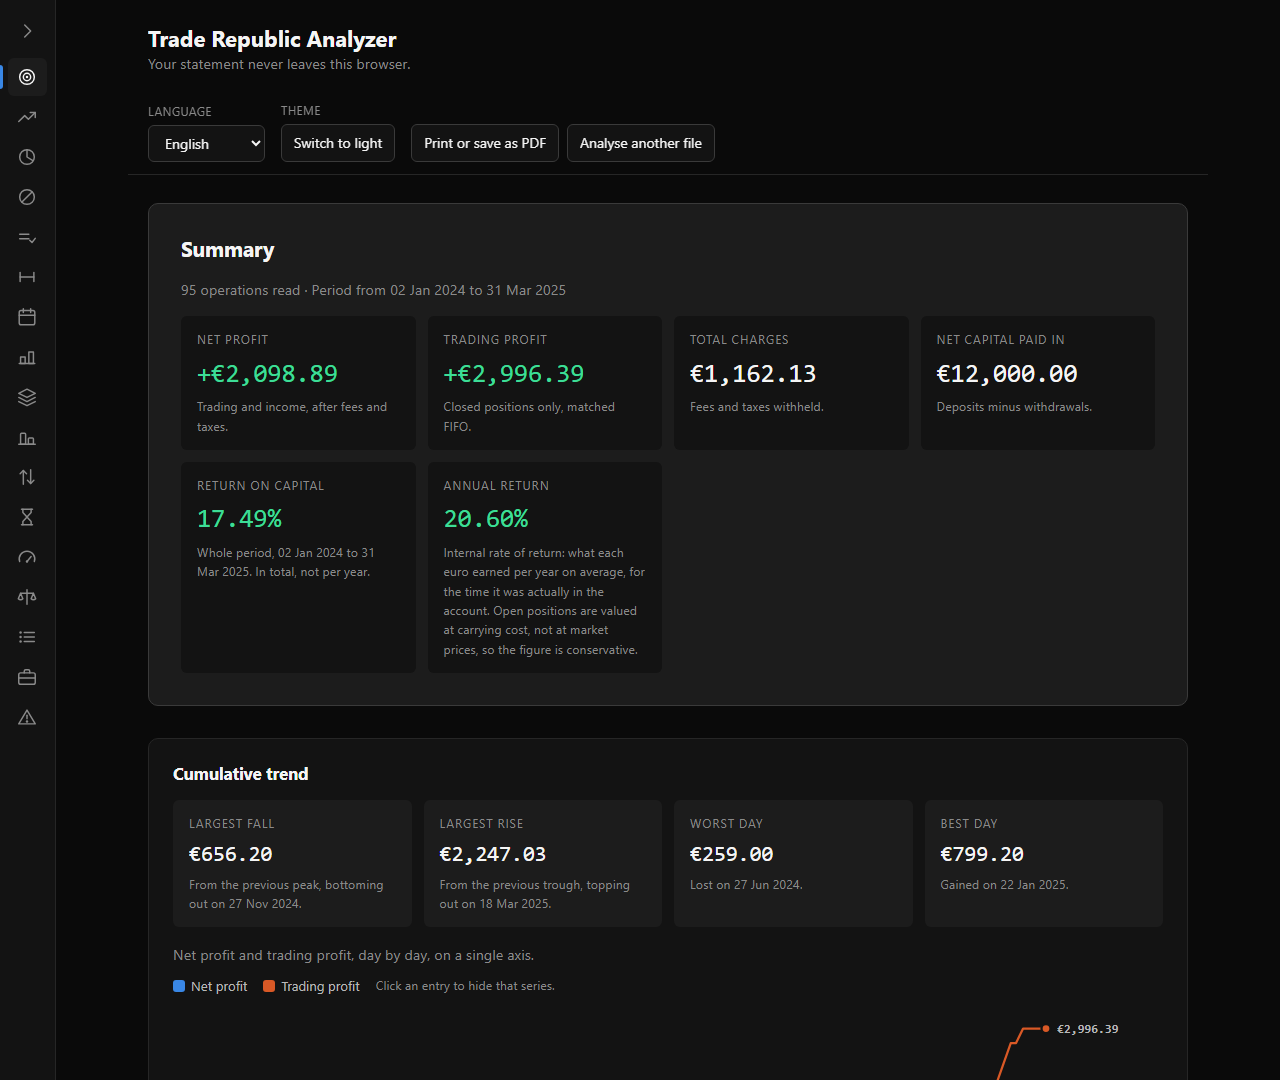
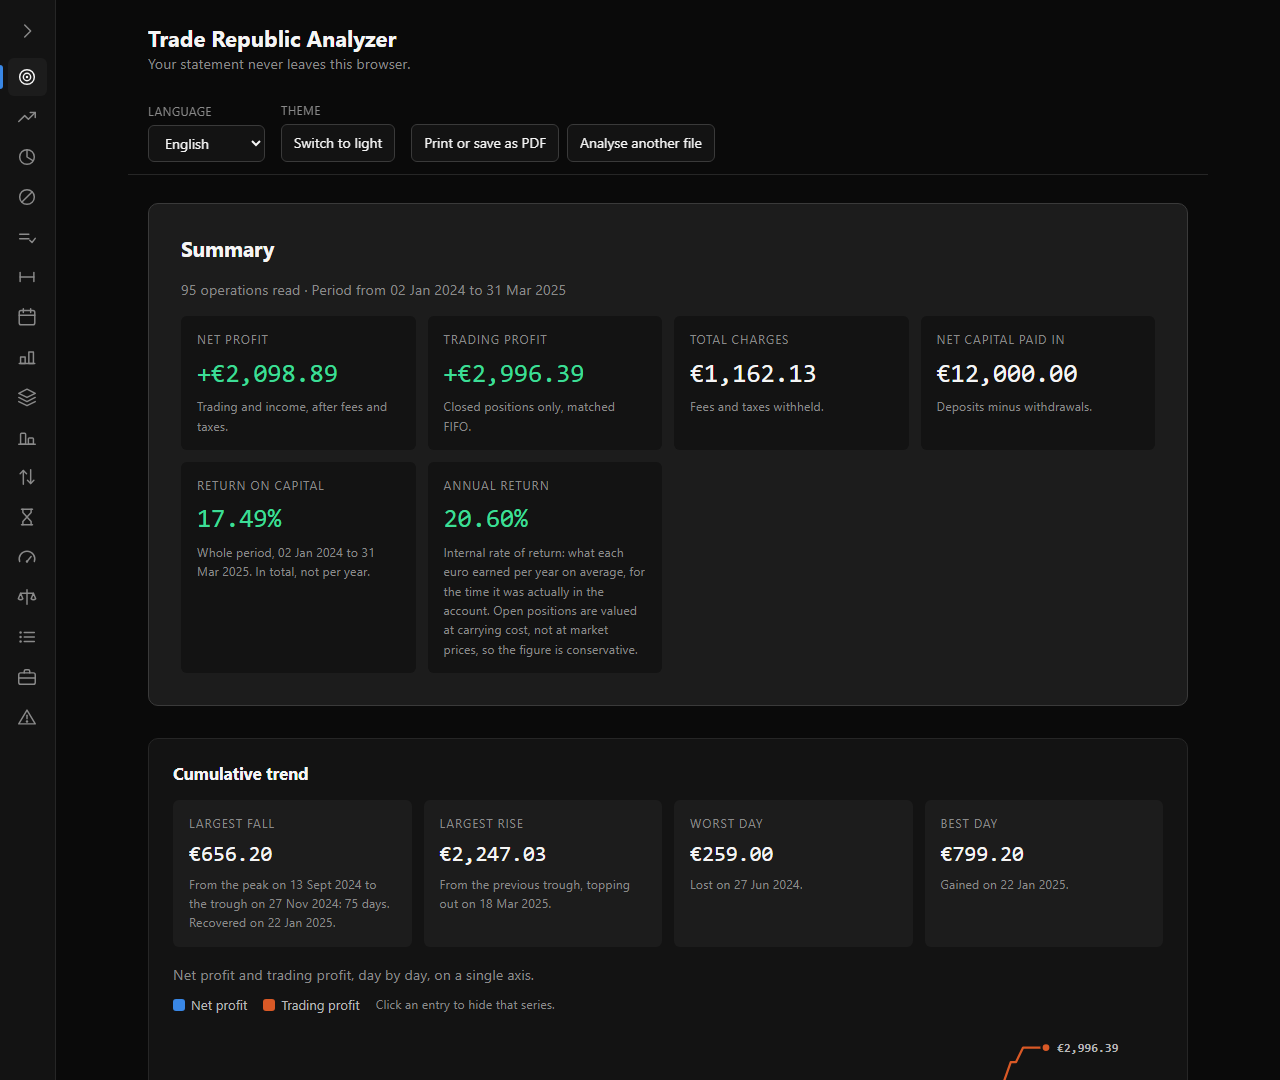
feat(trend): time the deepest fall, and say if it was made good
The four tiles sized the swing without saying how long it took. The
drawdown now carries its own span: from the peak it fell from, to the
trough, in calendar days, and the day the curve climbed back to that
peak — or that it has not.

It goes in the tile's hint rather than a fifth tile: five tiles break
the pairing the four were arranged for, where a narrow screen wraps
into fall+rise and worst+best.

`setback()` keeps the peak of the deepest fall apart from the running
one — a later, higher peak belongs to a shallower fall. Where that peak
is the zero the account opened at it has no day, and the tile falls
back to naming the trough alone: the first day of the series is one the
curve had already left.

Changed region(s): [[0.125, 0.7944, 0.4375, 0.9472], [0.7812, 0.9472, 0.875, 1.0]]

diff --git a/src/core/analytics.ts b/src/core/analytics.ts
@@ -47,6 +47,12 @@ export interface Setback {
   drawdown: Decimal;
   /** The day the deepest fall bottomed out. */
   troughDate: string;
+  /** The day of the peak it fell from. Empty when that peak is the seeded zero. */
+  peakDate: string;
+  /** Calendar days from that peak to the trough. Zero when there is no peak day. */
+  days: number;
+  /** The first day the curve climbed back to that peak, or null if it has not. */
+  recoveryDate: string | null;
   /** The worst single day's contribution, as a positive amount. */
   worstDay: Decimal;
   /** The day that contributed it. */
@@ -54,11 +60,37 @@ export interface Setback {
 }
 
 /**
- * How far the cumulative profit fell, and the worst single day inside it.
+ * The first day the curve stood at `level` again, after the day it bottomed out.
+ *
+ * The points are sorted, so the day strings compare directly. Null means the
+ * fall is still open — a fact about the account, not a missing figure.
+ */
+function recoveredOn(
+  points: readonly SeriesPoint[],
+  troughDate: string,
+  level: Decimal,
+): string | null {
+  for (const point of points) {
+    if (point.date > troughDate && !point.net.lessThan(level)) return point.date;
+  }
+  return null;
+}
+
+/**
+ * How far the cumulative profit fell, how long it took, and the worst single
+ * day inside it.
  *
  * The running peak starts at zero rather than at the first point: an account
  * that only ever loses has fallen from the zero it opened at, and starting the
  * peak at the first — already negative — point would report no fall at all.
+ * That seed is also why `peakDate` can be empty while the fall itself is real:
+ * the zero the account opened at stood on no particular day, and the first day
+ * of the series is one on which the curve had already dropped.
+ *
+ * The duration is calendar days elapsed between the two days, not days the
+ * account traded on: the money stayed down over the weekends too. Peak and
+ * trough can never be the same day — the fall from a peak is zero on the day
+ * that peak is set — so a duration that exists is at least one day.
  *
  * Null when nothing ever went backwards, which is not the same as a fall of
  * zero: a card that prints «-0,00 €» invites the reader to look for the day it
@@ -66,17 +98,27 @@ export interface Setback {
  */
 export function setback(points: readonly SeriesPoint[]): Setback | null {
   let peak = ZERO;
+  let peakDate = '';
   let drawdown = ZERO;
   let troughDate = '';
+  let fellFrom = ZERO;
+  let fellFromDate = '';
   let worstDay = ZERO;
   let worstDayDate = '';
 
   for (const point of points) {
-    if (point.net.greaterThan(peak)) peak = point.net;
+    if (point.net.greaterThan(peak)) {
+      peak = point.net;
+      peakDate = point.date;
+    }
     const fall = peak.minus(point.net);
     if (fall.greaterThan(drawdown)) {
       drawdown = fall;
       troughDate = point.date;
+      // The peak the deepest fall started from, kept apart from the running one:
+      // a later, higher peak belongs to a shallower fall.
+      fellFrom = peak;
+      fellFromDate = peakDate;
     }
     if (point.dayProfit.lessThan(worstDay)) {
       worstDay = point.dayProfit;
@@ -88,7 +130,15 @@ export function setback(points: readonly SeriesPoint[]): Setback | null {
   // only fall on a day that took something away, and a day that took something
   // away always leaves the curve below the peak it had just been at.
   if (troughDate === '') return null;
-  return { drawdown, troughDate, worstDay: worstDay.negated(), worstDayDate };
+  return {
+    drawdown,
+    troughDate,
+    peakDate: fellFromDate,
+    days: fellFromDate === '' ? 0 : daysBetween(fellFromDate, troughDate),
+    recoveryDate: recoveredOn(points, troughDate, fellFrom),
+    worstDay: worstDay.negated(),
+    worstDayDate,
+  };
 }
 
 export interface Advance {

diff --git a/tests/core/analytics.test.ts b/tests/core/analytics.test.ts
@@ -161,6 +161,84 @@ describe('setback', () => {
     expect(fall.worstDay.isNegative()).toBe(false);
     expect(fall.worstDay.toFixed(2)).toBe('40.00');
   });
+
+  it('dates the peak the fall started from, and the day it was made good', () => {
+    const points = account([
+      ['2024-02-01', 'AAA', '200.00'], // +100, net 100
+      ['2024-03-01', 'BBB', '40.00'], //  -60, net 40
+      ['2024-04-01', 'CCC', '200.00'], // +100, net 140
+    ]);
+    const fall = setback(points)!;
+
+    expect(fall.peakDate).toBe('2024-02-01');
+    expect(fall.troughDate).toBe('2024-03-01');
+    expect(fall.days).toBe(29); // February 2024 has 29 days.
+    expect(fall.recoveryDate).toBe('2024-04-01');
+  });
+
+  it('counts calendar days elapsed, so two consecutive days are one', () => {
+    const fall = setback(
+      account([
+        ['2024-02-01', 'AAA', '200.00'], // +100, net 100
+        ['2024-02-02', 'BBB', '40.00'], //  -60, net 40
+      ]),
+    )!;
+
+    expect(fall.days).toBe(1);
+  });
+
+  it('leaves the recovery open until the curve reaches the peak again', () => {
+    // The last day climbs, and climbs past the trough — but it stops below the
+    // 100 the fall started from, so the fall is still on.
+    const fall = setback(
+      account([
+        ['2024-02-01', 'AAA', '200.00'], // +100, net 100
+        ['2024-03-01', 'BBB', '40.00'], //  -60, net 40
+        ['2024-04-01', 'CCC', '150.00'], //  +50, net 90
+      ]),
+    )!;
+
+    expect(fall.drawdown.toFixed(2)).toBe('60.00');
+    expect(fall.recoveryDate).toBeNull();
+  });
+
+  it('recovers on the day the curve regains the peak, not the day it turns', () => {
+    const fall = setback(
+      account([
+        ['2024-02-01', 'AAA', '200.00'], // +100, net 100
+        ['2024-03-01', 'BBB', '40.00'], //  -60, net 40
+        ['2024-04-01', 'CCC', '150.00'], //  +50, net 90
+        ['2024-05-01', 'DDD', '160.00'], //  +60, net 150
+      ]),
+    )!;
+
+    expect(fall.recoveryDate).toBe('2024-05-01');
+  });
+
+  it('keeps the peak of the deepest fall when a higher one comes later', () => {
+    const points = account([
+      ['2024-02-01', 'AAA', '200.00'], // +100, net 100
+      ['2024-03-01', 'BBB', '40.00'], //  -60, net 40
+      ['2024-04-01', 'CCC', '300.00'], // +200, net 240
+      ['2024-05-01', 'DDD', '80.00'], //  -20, net 220
+    ]);
+    const fall = setback(points)!;
+
+    // The later peak is the higher one, but it belongs to the 20 fall.
+    expect(fall.drawdown.toFixed(2)).toBe('60.00');
+    expect(fall.peakDate).toBe('2024-02-01');
+    expect(fall.days).toBe(29);
+  });
+
+  it('has no day for a peak that is the zero the account opened at', () => {
+    // The first point is already negative: the fall is real, but it started
+    // from a zero that stood on no day of the series.
+    const fall = setback(account([['2024-02-01', 'AAA', '60.00']]))!;
+
+    expect(fall.drawdown.toFixed(2)).toBe('40.00');
+    expect(fall.peakDate).toBe('');
+    expect(fall.days).toBe(0);
+  });
 });
 
 describe('advance', () => {

diff --git a/tests/ui/trend.test.ts b/tests/ui/trend.test.ts
@@ -25,6 +25,18 @@ const DIPS = [
   op('2024-05-01T09:00:00Z', 'TRADING', 'SELL', { shares: '-1', amount: '160', symbol: 'DDD' }),
 ];
 
+/**
+ * A fall the curve never climbs back out of, one day after the peak: net 100 on
+ * 02-01, then 40 on 02-02 and nothing after it.
+ */
+const UNRECOVERED = [
+  ...['AAA', 'BBB'].map((symbol) =>
+    op('2024-01-01T09:00:00Z', 'TRADING', 'BUY', { shares: '1', amount: '-100', symbol }),
+  ),
+  op('2024-02-01T09:00:00Z', 'TRADING', 'SELL', { shares: '-1', amount: '200', symbol: 'AAA' }),
+  op('2024-02-02T09:00:00Z', 'TRADING', 'SELL', { shares: '-1', amount: '40', symbol: 'BBB' }),
+];
+
 /** Never falls: no fee on the buy, and the one sale is a gain. */
 const ONLY_RISES = [
   op('2024-01-01T09:00:00Z', 'TRADING', 'BUY', { shares: '1', amount: '-100' }),
@@ -70,6 +82,35 @@ describe('trendSection', () => {
     // 100 down to 50, while the account is still 50 in profit.
     expect(drawdown!.value).toBe(formatCurrency('it', dec('50')));
     expect(drawdown!.hint).toContain(formatDate('it', '2024-04-01'));
+  });
+
+  it('says how long the fall lasted and when it was made good', () => {
+    const [drawdown] = tiles(trendSection(contextFor('it', DIPS)));
+
+    // Written out whole: the two dates are the peak and the trough in that
+    // order, and a sentence that named them the other way round would still
+    // contain both.
+    expect(drawdown!.hint).toBe(
+      `Dal picco del ${formatDate('it', '2024-02-01')} al minimo del ${formatDate('it', '2024-04-01')}: 60 giorni. Recuperata il ${formatDate('it', '2024-05-01')}.`,
+    );
+  });
+
+  it('says the fall is still on when the curve never regained the peak', () => {
+    const [drawdown] = tiles(trendSection(contextFor('it', UNRECOVERED)));
+
+    expect(drawdown!.hint).toBe(
+      `Dal picco del ${formatDate('it', '2024-02-01')} al minimo del ${formatDate('it', '2024-02-02')}: 1 giorno, non ancora recuperata.`,
+    );
+  });
+
+  it('names only the trough when the fall started from the account’s zero', () => {
+    // No day carried that peak, so there is no span to state: the sentence is
+    // the one the tile printed before it could measure a duration.
+    const [drawdown] = tiles(trendSection(contextFor('it', ONLY_FALLS)));
+
+    expect(drawdown!.hint).toBe(
+      `Dal picco precedente, minimo toccato il ${formatDate('it', '2024-06-01')}.`,
+    );
   });
 
   it('measures the run-up from the trough, not from the start', () => {

diff --git a/src/ui/views/trend.ts b/src/ui/views/trend.ts
@@ -5,14 +5,38 @@
  * reason a second axis is never offered here.
  */
 
-import { advance, setback, timeSeries } from '../../core/analytics';
+import { advance, setback, timeSeries, type Setback } from '../../core/analytics';
 import { el } from '../dom';
 import { figure } from '../chart/figure';
 import { dayNumber } from '../chart/geometry';
 import { lineChart } from '../chart/line';
 import { SERIES_1, SERIES_2 } from '../chart/palette';
 import { formatCurrency, formatDate } from '../format';
-import { section, signedCell, statTile, type ReportContext } from './common';
+import { daysLabel, section, signedCell, statTile, type ReportContext } from './common';
+
+/**
+ * The sentence under the largest fall: from when to when, and whether it is over.
+ *
+ * With no day for the peak — the fall started from the zero the account opened
+ * at — the sentence names the trough alone, as it always did: the first day of
+ * the series is not the peak's day, it is a day the curve had already left it.
+ */
+function drawdownHint({ language, t }: ReportContext, fall: Setback): string {
+  const trough = formatDate(language, fall.troughDate);
+  if (fall.peakDate === '') return t('trend.drawdown.hint', { date: trough });
+
+  const span = {
+    peak: formatDate(language, fall.peakDate),
+    trough,
+    days: daysLabel(t, language, fall.days),
+  };
+  return fall.recoveryDate === null
+    ? t('trend.drawdown.hint.open', span)
+    : t('trend.drawdown.hint.recovered', {
+        ...span,
+        recovery: formatDate(language, fall.recoveryDate),
+      });
+}
 
 export function trendSection(context: ReportContext): HTMLElement {
   const { report, language, t } = context;
@@ -45,7 +69,7 @@ export function trendSection(context: ReportContext): HTMLElement {
           statTile({
             label: t('trend.drawdown'),
             value: formatCurrency(language, fall.drawdown),
-            hint: t('trend.drawdown.hint', { date: formatDate(language, fall.troughDate) }),
+            hint: drawdownHint(context, fall),
           }),
         rise !== null &&
           statTile({

diff --git a/src/ui/messages/de.ts b/src/ui/messages/de.ts
@@ -84,6 +84,10 @@ export const de: Messages = {
   'trend.column.dayProfit': 'Veränderung am Tag',
   'trend.drawdown': 'Größter Rückgang',
   'trend.drawdown.hint': 'Vom vorherigen Höchststand, Tiefpunkt am {date}.',
+  'trend.drawdown.hint.recovered':
+    'Vom Höchststand am {peak} bis zum Tiefpunkt am {trough}: {days}. Aufgeholt am {recovery}.',
+  'trend.drawdown.hint.open':
+    'Vom Höchststand am {peak} bis zum Tiefpunkt am {trough}: {days}, noch nicht aufgeholt.',
   'trend.runUp': 'Größter Anstieg',
   'trend.runUp.hint': 'Vom vorherigen Tiefpunkt, Höchststand am {date}.',
   'trend.worstDay': 'Schlechtester Tag',

diff --git a/src/ui/messages/fr.ts b/src/ui/messages/fr.ts
@@ -84,6 +84,10 @@ export const fr: Messages = {
   'trend.column.dayProfit': 'Variation du jour',
   'trend.drawdown': 'Plus forte baisse',
   'trend.drawdown.hint': 'Depuis le sommet précédent, point bas le {date}.',
+  'trend.drawdown.hint.recovered':
+    'Du sommet du {peak} au point bas du {trough} : {days}. Récupérée le {recovery}.',
+  'trend.drawdown.hint.open':
+    'Du sommet du {peak} au point bas du {trough} : {days}, pas encore récupérée.',
   'trend.runUp': 'Plus forte hausse',
   'trend.runUp.hint': 'Depuis le point bas précédent, sommet le {date}.',
   'trend.worstDay': 'Pire journée',

diff --git a/src/ui/messages/nl.ts b/src/ui/messages/nl.ts
@@ -84,6 +84,10 @@ export const nl: Messages = {
   'trend.column.dayProfit': 'Verandering op de dag',
   'trend.drawdown': 'Grootste terugval',
   'trend.drawdown.hint': 'Vanaf de vorige top, dieptepunt op {date}.',
+  'trend.drawdown.hint.recovered':
+    'Van de top op {peak} tot het dieptepunt op {trough}: {days}. Hersteld op {recovery}.',
+  'trend.drawdown.hint.open':
+    'Van de top op {peak} tot het dieptepunt op {trough}: {days}, nog niet hersteld.',
   'trend.runUp': 'Grootste stijging',
   'trend.runUp.hint': 'Vanaf het vorige dieptepunt, hoogtepunt op {date}.',
   'trend.worstDay': 'Slechtste dag',

diff --git a/src/ui/messages/en.ts b/src/ui/messages/en.ts
@@ -82,6 +82,10 @@ export const en: Messages = {
   'trend.column.dayProfit': 'Change on the day',
   'trend.drawdown': 'Largest fall',
   'trend.drawdown.hint': 'From the previous peak, bottoming out on {date}.',
+  'trend.drawdown.hint.recovered':
+    'From the peak on {peak} to the trough on {trough}: {days}. Recovered on {recovery}.',
+  'trend.drawdown.hint.open':
+    'From the peak on {peak} to the trough on {trough}: {days}, not recovered yet.',
   'trend.runUp': 'Largest rise',
   'trend.runUp.hint': 'From the previous trough, topping out on {date}.',
   'trend.worstDay': 'Worst day',

diff --git a/src/ui/messages/es.ts b/src/ui/messages/es.ts
@@ -84,6 +84,10 @@ export const es: Messages = {
   'trend.column.dayProfit': 'Variación del día',
   'trend.drawdown': 'Mayor caída',
   'trend.drawdown.hint': 'Desde el máximo anterior, con mínimo el {date}.',
+  'trend.drawdown.hint.recovered':
+    'Del máximo del {peak} al mínimo del {trough}: {days}. Recuperada el {recovery}.',
+  'trend.drawdown.hint.open':
+    'Del máximo del {peak} al mínimo del {trough}: {days}, aún no recuperada.',
   'trend.runUp': 'Mayor subida',
   'trend.runUp.hint': 'Desde el mínimo anterior, con máximo el {date}.',
   'trend.worstDay': 'Peor día',

diff --git a/src/ui/messages/it.ts b/src/ui/messages/it.ts
@@ -97,6 +97,10 @@ export const it = {
   'trend.column.dayProfit': 'Variazione del giorno',
   'trend.drawdown': 'Discesa massima',
   'trend.drawdown.hint': 'Dal picco precedente, minimo toccato il {date}.',
+  'trend.drawdown.hint.recovered':
+    'Dal picco del {peak} al minimo del {trough}: {days}. Recuperata il {recovery}.',
+  'trend.drawdown.hint.open':
+    'Dal picco del {peak} al minimo del {trough}: {days}, non ancora recuperata.',
   'trend.runUp': 'Salita massima',
   'trend.runUp.hint': 'Dal minimo precedente, massimo toccato il {date}.',
   'trend.worstDay': 'Giorno peggiore',

diff --git a/src/ui/messages/pt.ts b/src/ui/messages/pt.ts
@@ -84,6 +84,10 @@ export const pt: Messages = {
   'trend.column.dayProfit': 'Variação do dia',
   'trend.drawdown': 'Maior queda',
   'trend.drawdown.hint': 'Desde o máximo anterior, com mínimo a {date}.',
+  'trend.drawdown.hint.recovered':
+    'Do máximo a {peak} até ao mínimo a {trough}: {days}. Recuperada a {recovery}.',
+  'trend.drawdown.hint.open':
+    'Do máximo a {peak} até ao mínimo a {trough}: {days}, ainda não recuperada.',
   'trend.runUp': 'Maior subida',
   'trend.runUp.hint': 'Desde o mínimo anterior, com máximo a {date}.',
   'trend.worstDay': 'Pior dia',
